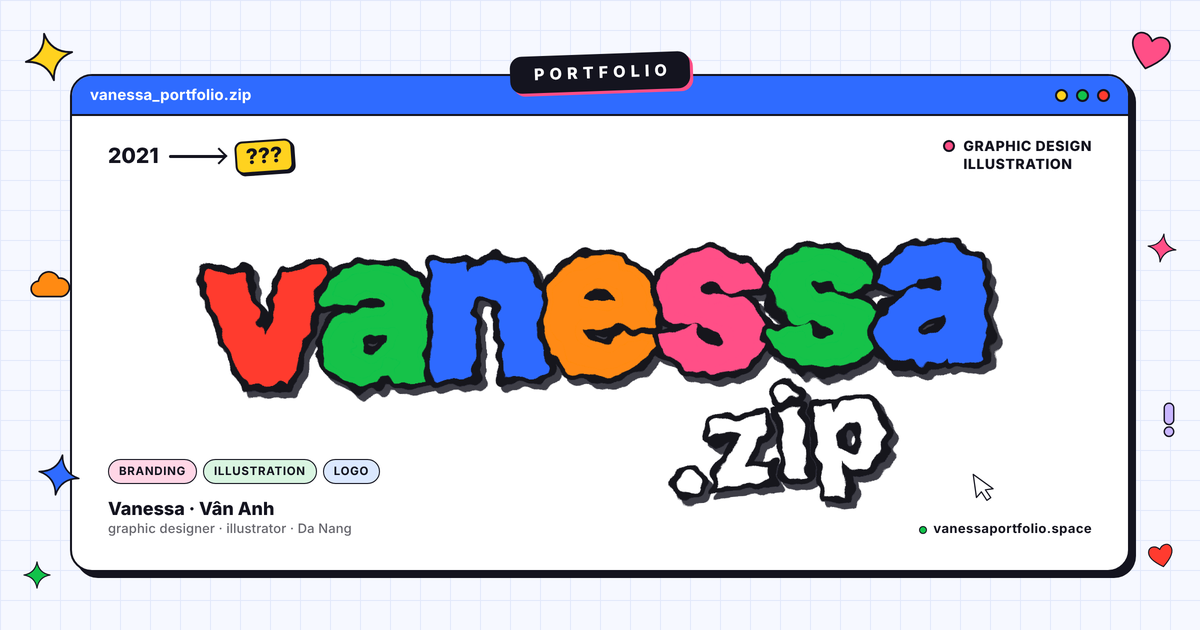
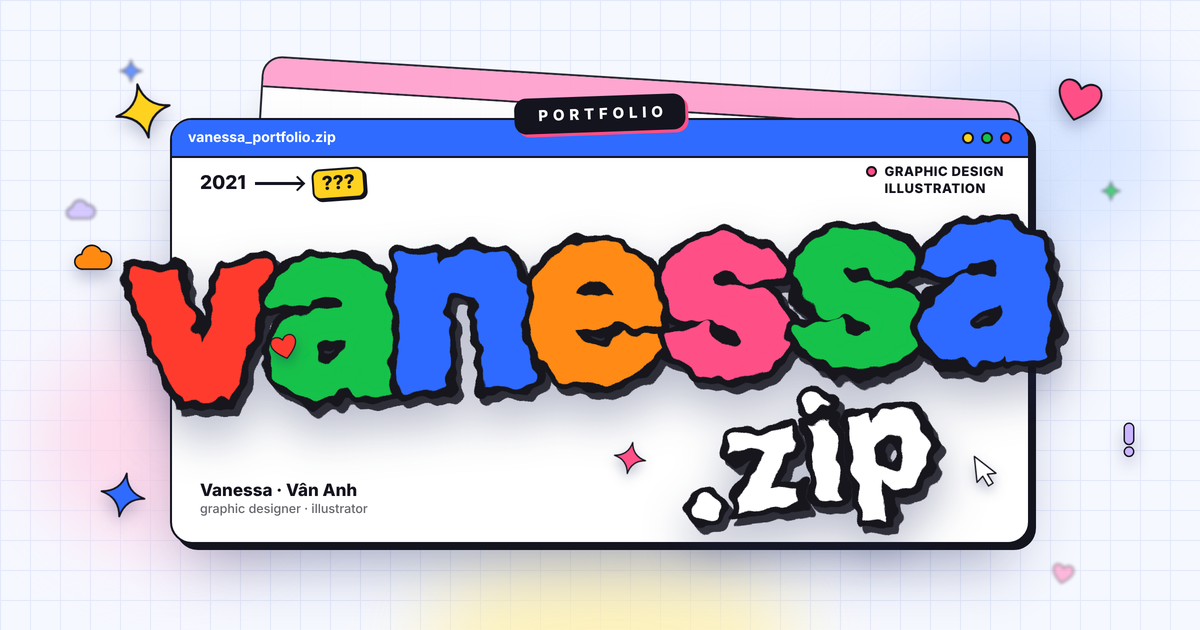
Share cover: bigger title breaking out of a smaller window, layered decor
Claude-Session: https://claude.ai/code/session_012pbfGyVDGdDDVEyPQMMkMk

diff --git a/preview.html b/preview.html
@@ -1,7 +1,7 @@
[1 lines of base64/hex data omitted]
 <meta property="og:type" content="website"><meta property="og:url" content="https://vanessaportfolio.space/"><meta property="og:title" content="vanessa.zip · portfolio"><meta property="og:description" content="Graphic designer &amp; illustrator from Da Nang. Branding, illustration, logo &amp; mascot.">
-<meta property="og:image" content="https://vanessaportfolio.space/og-image.png?v=2"><meta property="og:image:width" content="1200"><meta property="og:image:height" content="630"><meta property="og:image:alt" content="vanessa.zip portfolio cover">
-<meta name="twitter:card" content="summary_large_image"><meta name="twitter:title" content="vanessa.zip · portfolio"><meta name="twitter:image" content="https://vanessaportfolio.space/og-image.png?v=2"><!--/og--><title>vanessa.zip</title>
+<meta property="og:image" content="https://vanessaportfolio.space/og-image.png?v=3"><meta property="og:image:width" content="1200"><meta property="og:image:height" content="630"><meta property="og:image:alt" content="vanessa.zip portfolio cover">
+<meta name="twitter:card" content="summary_large_image"><meta name="twitter:title" content="vanessa.zip · portfolio"><meta name="twitter:image" content="https://vanessaportfolio.space/og-image.png?v=3"><!--/og--><title>vanessa.zip</title>
 <link href="https://fonts.googleapis.com/css2?family=Baloo+2:wght@500;700;800&family=Mali:wght@600;700&display=swap" rel="stylesheet">
 <style>
 :root{color-scheme:light;--bg:#fff;--grid:#dce7ff;--ink:#14141f;--txt:#14141f;--blue:#2f6bff;--red:#ff3b2f;--green:#12c24a;--org:#ff8a12;--pink:#ff4f87;--yel:#ffd21f;--f:"Baloo 2","Trebuchet MS",system-ui,sans-serif;--h:"Mali","Patrick Hand","Comic Sans MS",cursive;box-sizing:border-box;padding-top:env(safe-area-inset-top,0px);padding-bottom:env(safe-area-inset-bottom,0px)}

diff --git a/index.html b/index.html
@@ -1,7 +1,7 @@
[1 lines of base64/hex data omitted]
 <meta property="og:type" content="website"><meta property="og:url" content="https://vanessaportfolio.space/"><meta property="og:title" content="vanessa.zip · portfolio"><meta property="og:description" content="Graphic designer &amp; illustrator from Da Nang. Branding, illustration, logo &amp; mascot.">
-<meta property="og:image" content="https://vanessaportfolio.space/og-image.png?v=2"><meta property="og:image:width" content="1200"><meta property="og:image:height" content="630"><meta property="og:image:alt" content="vanessa.zip portfolio cover">
-<meta name="twitter:card" content="summary_large_image"><meta name="twitter:title" content="vanessa.zip · portfolio"><meta name="twitter:image" content="https://vanessaportfolio.space/og-image.png?v=2"><!--/og--><title>vanessa.zip</title>
+<meta property="og:image" content="https://vanessaportfolio.space/og-image.png?v=3"><meta property="og:image:width" content="1200"><meta property="og:image:height" content="630"><meta property="og:image:alt" content="vanessa.zip portfolio cover">
+<meta name="twitter:card" content="summary_large_image"><meta name="twitter:title" content="vanessa.zip · portfolio"><meta name="twitter:image" content="https://vanessaportfolio.space/og-image.png?v=3"><!--/og--><title>vanessa.zip</title>
 <link href="https://fonts.googleapis.com/css2?family=Baloo+2:wght@500;700;800&family=Mali:wght@600;700&display=swap" rel="stylesheet">
 <style>
 :root{color-scheme:light;--bg:#fff;--grid:#dce7ff;--ink:#14141f;--txt:#14141f;--blue:#2f6bff;--red:#ff3b2f;--green:#12c24a;--org:#ff8a12;--pink:#ff4f87;--yel:#ffd21f;--f:"Baloo 2","Trebuchet MS",system-ui,sans-serif;--h:"Mali","Patrick Hand","Comic Sans MS",cursive;box-sizing:border-box;padding-top:env(safe-area-inset-top,0px);padding-bottom:env(safe-area-inset-bottom,0px)}
